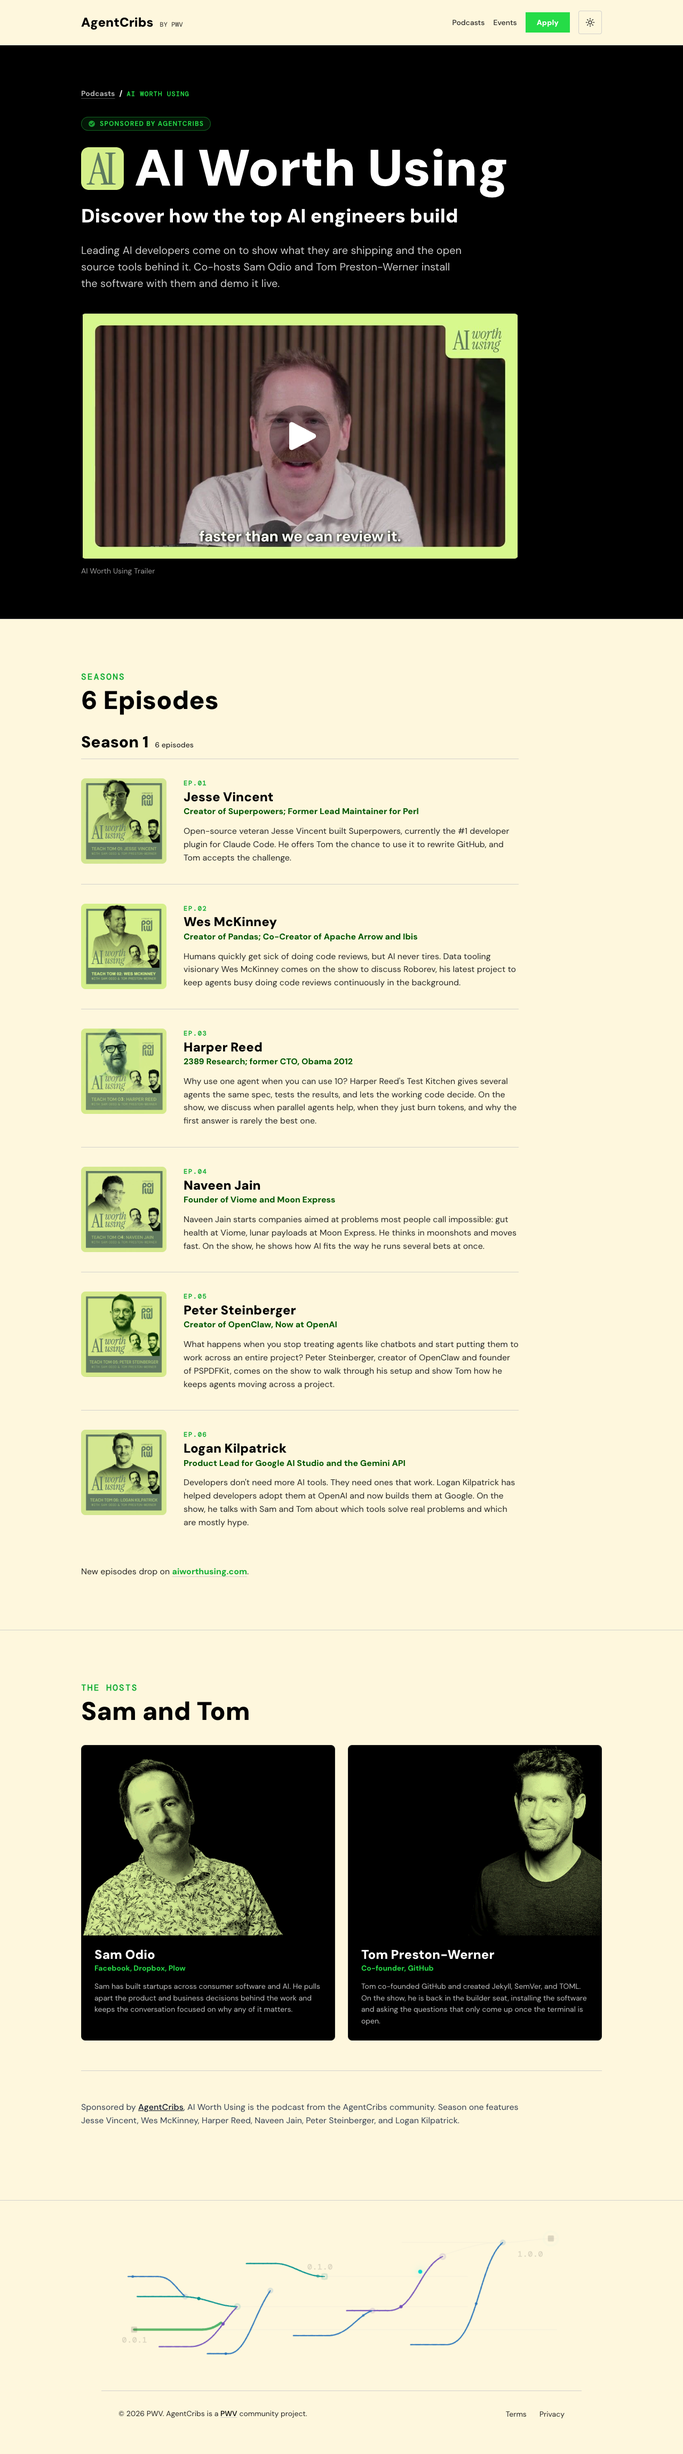
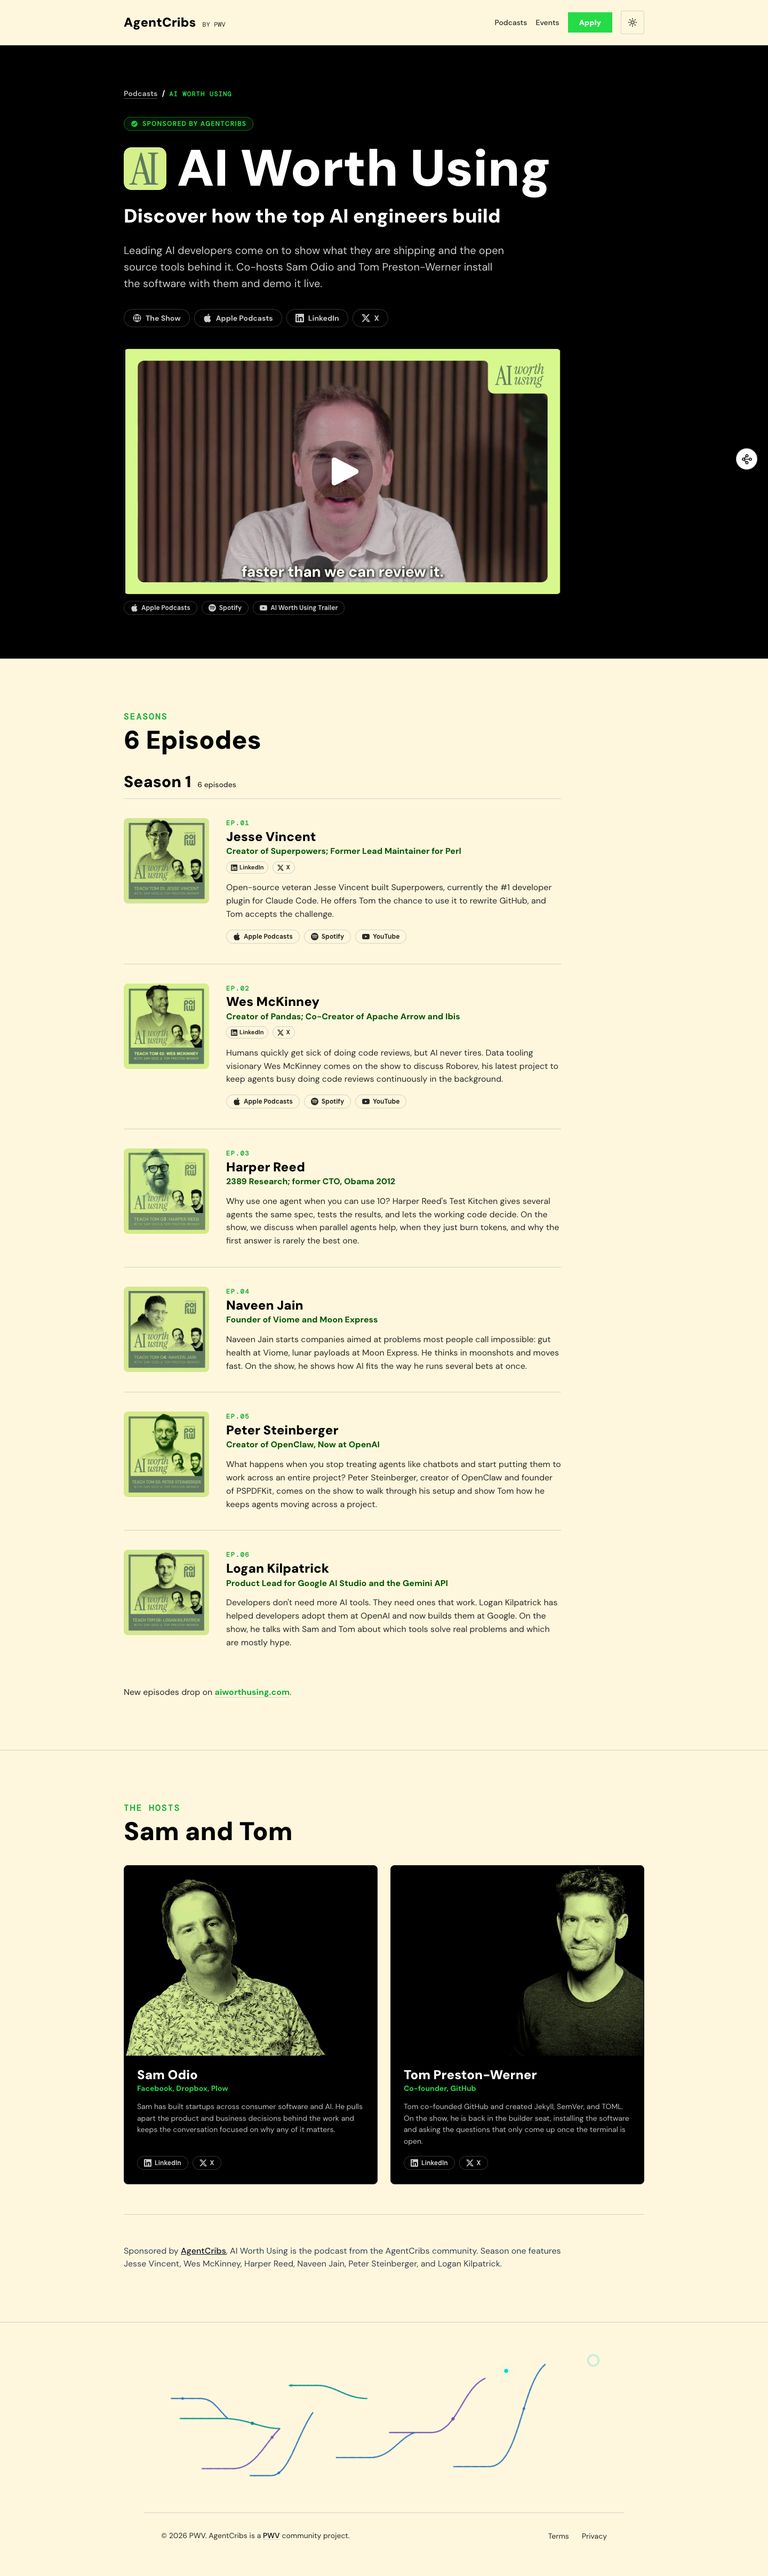
previews

diff --git a/screenshots/preview.html b/screenshots/preview.html
@@ -1,0 +1,142 @@
+<!doctype html>
+<html lang="en" class="dark">
+<head>
+<meta charset="utf-8">
+<meta name="viewport" content="width=device-width, initial-scale=1">
+<title>Full-page screenshots — AgentCribs</title>
+<link rel="preconnect" href="https://fonts.googleapis.com">
+<link rel="preconnect" href="https://fonts.gstatic.com" crossorigin>
+<link href="https://fonts.googleapis.com/css2?family=DM+Mono:wght@400&family=DM+Sans:opsz,wght@9..40,100..900&display=swap" rel="stylesheet">
+<style>
+  :root {
+    --bg: oklch(8% 0 0);
+    --bg-soft: oklch(12% 0.005 95);
+    --text: oklch(94% 0.02 95);
+    --text-secondary: oklch(82% 0.015 95);
+    --border: oklch(28% 0.01 95);
+    --accent: oklch(80% 0.15 145);
+    --accent-text: oklch(5% 0 0);
+  }
+  * { box-sizing: border-box; }
+  html { scroll-behavior: smooth; }
+  body {
+    margin: 0;
+    background: var(--bg);
+    color: var(--text);
+    font-family: "DM Sans", system-ui, sans-serif;
+    -webkit-font-smoothing: antialiased;
+  }
+  h1,h2,h3,h4 { letter-spacing: 0; line-height: 0.98; margin: 0; }
+
+  .wrap { max-width: 1280px; margin: 0 auto; padding: 48px 24px 96px; }
+  .page-head h1 { font-size: clamp(2rem, 5vw, 3rem); font-weight: 900; }
+  .page-head .sub { color: var(--text-secondary); max-width: 60ch; margin-top: 12px; line-height: 1.55; }
+  .label-text {
+    font-family: "DM Mono", monospace; font-weight: 400;
+    text-transform: uppercase; letter-spacing: 0.14em; color: var(--accent);
+    display: flex; align-items: center; gap: 12px; margin: 0;
+  }
+
+  nav.jump {
+    position: sticky; top: 0; z-index: 40;
+    display: flex; gap: 8px; flex-wrap: wrap; align-items: center;
+    background: color-mix(in oklab, var(--bg) 82%, transparent);
+    backdrop-filter: blur(10px);
+    border-bottom: 1px solid var(--border);
+    padding: 12px 24px;
+  }
+  nav.jump a {
+    font-family: "DM Mono", monospace; font-size: 11px; text-transform: uppercase;
+    letter-spacing: 0.1em; text-decoration: none; color: var(--text-secondary);
+    border: 1px solid var(--border); border-radius: 999px; padding: 6px 14px;
+    transition: border-color .2s ease-out, color .2s ease-out;
+  }
+  nav.jump a:hover { border-color: var(--accent); color: var(--text); }
+
+  section.shot { margin-top: 72px; scroll-margin-top: 72px; }
+  .shot-head { display: flex; align-items: baseline; gap: 14px; flex-wrap: wrap; margin-bottom: 16px; }
+  .shot-head h2 { font-size: 1.35rem; font-weight: 900; }
+  .shot-head .route {
+    font-family: "DM Mono", monospace; font-size: 11px; text-transform: uppercase;
+    letter-spacing: 0.12em; color: var(--text-secondary); white-space: nowrap;
+  }
+  .shot-head .spec { font-family: "DM Mono", monospace; font-size: 11px; color: var(--text-secondary); margin-left: auto; }
+  .frame {
+    border: 1px solid var(--border); border-radius: 16px; overflow: hidden;
+    background: var(--bg-soft);
+  }
+  .frame img { display: block; width: 100%; height: auto; }
+  .frame figcaption {
+    display: flex; justify-content: space-between; gap: 12px; flex-wrap: wrap;
+    padding: 12px 18px; border-top: 1px solid var(--border);
+    font-family: "DM Mono", monospace; font-size: 11px; color: var(--text-secondary);
+  }
+  footer.note { margin-top: 80px; padding-top: 24px; border-top: 1px solid var(--border); color: var(--text-secondary); font-size: .85rem; max-width: 70ch; line-height: 1.6; }
+</style>
+</head>
+<body>
+<nav class="jump">
+  <span class="label-text" style="margin-right:auto">Full-page captures · 1440×900</span>
+  <a href="#home">Home</a>
+  <a href="#podcasts">Podcasts</a>
+  <a href="#podcast">Podcast detail</a>
+</nav>
+
+<div class="wrap">
+  <header class="page-head">
+    <p class="label-text">◉ Screenshot review</p>
+    <h1>AgentCribs full-page captures</h1>
+    <p class="sub">Fresh full-page screenshots of the home page, podcasts index, and the AI Worth Using detail page — captured at 1440&times;900 against the local dev server, with time left for the Cloudflare Stream trailer to load its poster and player chrome.</p>
+  </header>
+
+  <section class="shot" id="home">
+    <div class="shot-head">
+      <h2>Home</h2>
+      <span class="route">/</span>
+      <span class="spec">1440 × 5782 · home-full.png</span>
+    </div>
+    <figure class="frame">
+      <img src="home-full.png" alt="Full-page screenshot of the AgentCribs home page">
+      <figcaption>
+        <span>Hero, community, events, FAQ</span>
+        <span>home-full.png</span>
+      </figcaption>
+    </figure>
+  </section>
+
+  <section class="shot" id="podcasts">
+    <div class="shot-head">
+      <h2>Podcasts</h2>
+      <span class="route">/podcasts</span>
+      <span class="spec">1440 × 1403 · podcasts-full.png</span>
+    </div>
+    <figure class="frame">
+      <img src="podcasts-full.png" alt="Full-page screenshot of the podcasts index page">
+      <figcaption>
+        <span>Featured show card — AI Worth Using</span>
+        <span>podcasts-full.png</span>
+      </figcaption>
+    </figure>
+  </section>
+
+  <section class="shot" id="podcast">
+    <div class="shot-head">
+      <h2>Podcast detail</h2>
+      <span class="route">/podcasts/ai-worth-using</span>
+      <span class="spec">1440 × 4827 · podcast-ai-worth-using-full.png</span>
+    </div>
+    <figure class="frame">
+      <img src="podcast-ai-worth-using-full.png" alt="Full-page screenshot of the AI Worth Using podcast detail page">
+      <figcaption>
+        <span>Trailer poster loaded · 6 episodes · hosts</span>
+        <span>podcast-ai-worth-using-full.png</span>
+      </figcaption>
+    </figure>
+  </section>
+
+  <footer class="note">
+    Captured with agent-browser against the local Vite dev server. Full-page PNGs in <code>screenshots/</code>; the trailer iframe was left to reach network idle plus several seconds of settle time so the poster and player chrome rendered completely.
+  </footer>
+</div>
+</body>
+</html>

diff --git a/.commandcode/taste/screenshots/taste.md b/.commandcode/taste/screenshots/taste.md
@@ -5,3 +5,4 @@
 - Run browser automation in an isolated named session (e.g., `agent-browser --session <project>-shots`) instead of the default shared session, so concurrently open human/other-agent tabs can't hijack or pollute captures. Confidence: 0.7
 - Always visually verify each captured screenshot by reading the image back and checking for black boxes or missing content before handing it off. Confidence: 0.7
 - Clean up fully after browser capture tasks: delete temporary check screenshots, close the browser session, and kill the background dev server that was started for the task. Confidence: 0.7
+- When asked to capture page screenshots, assemble the full-page captures into a single static HTML preview page (e.g., `screenshots/preview.html`) so all pages can be reviewed in one place; reference the PNGs as relative siblings so the page works directly from the file system. Confidence: 0.8
